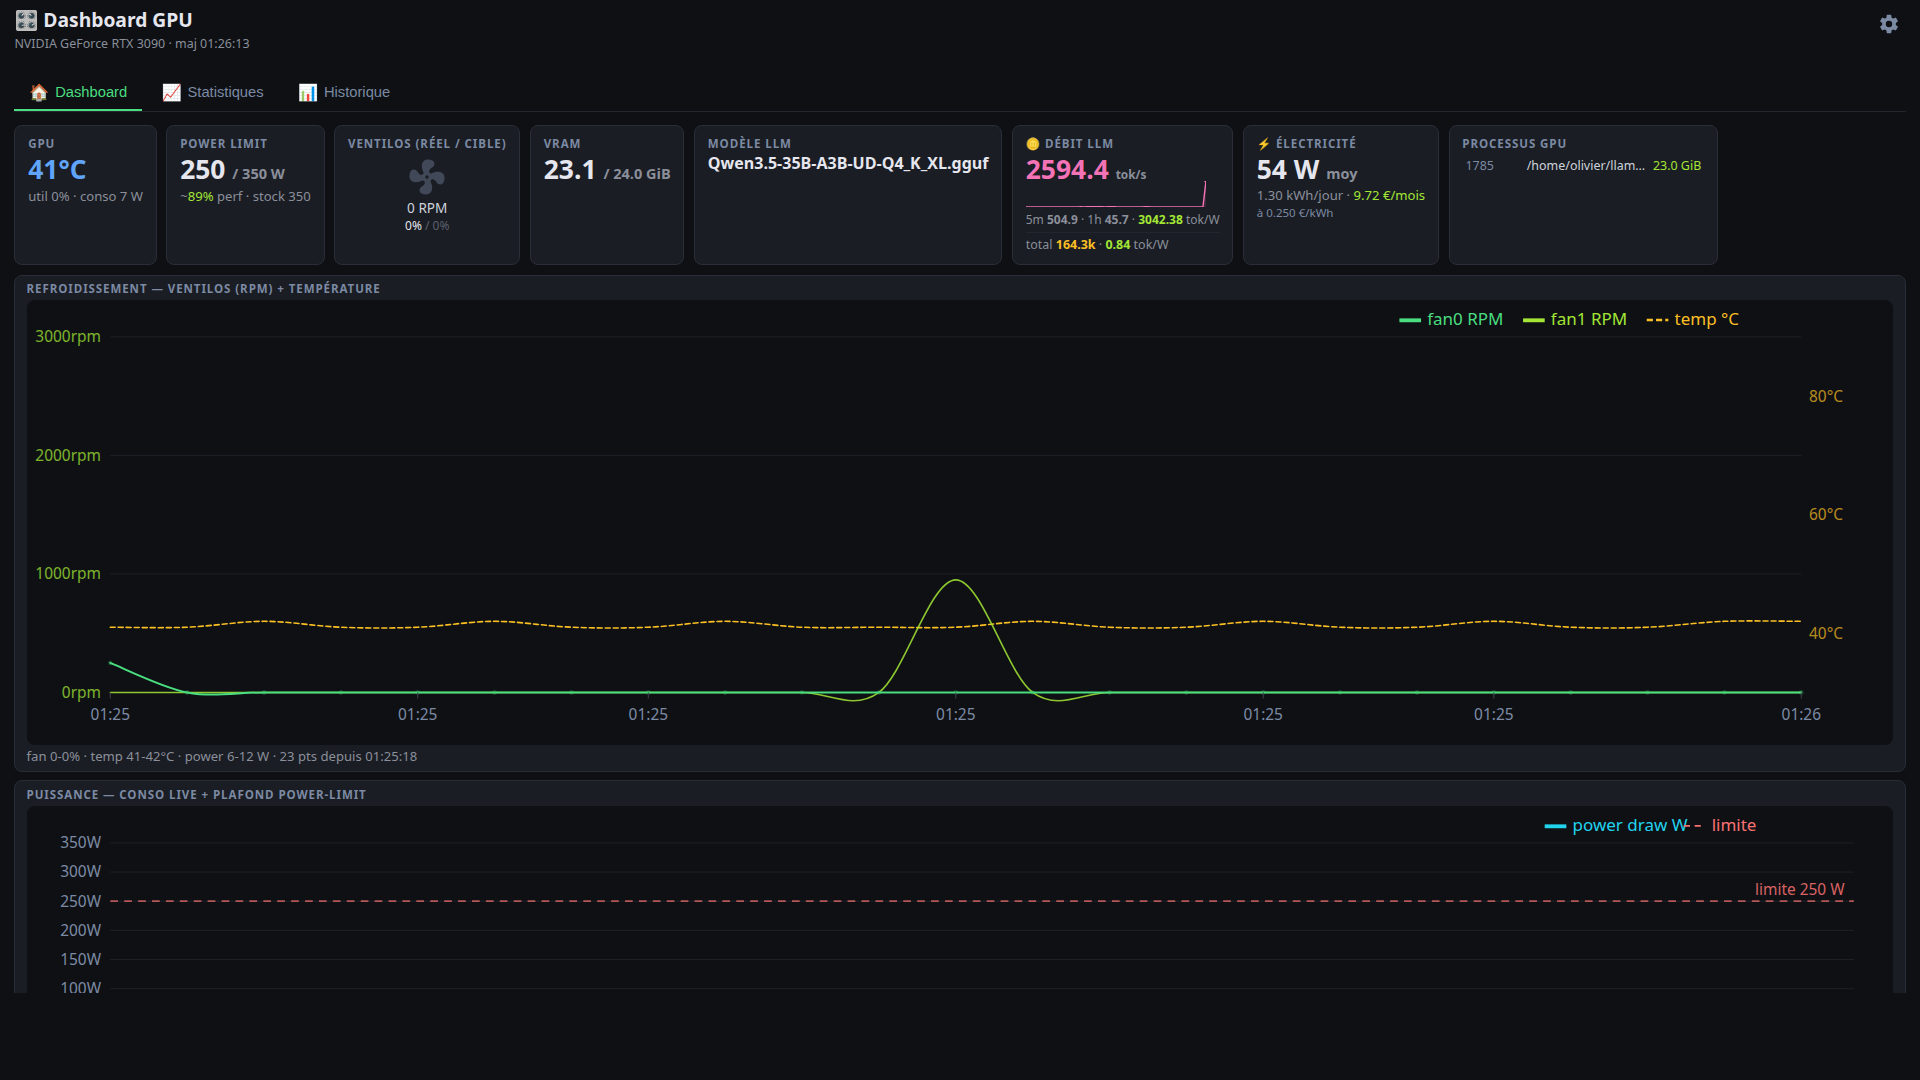
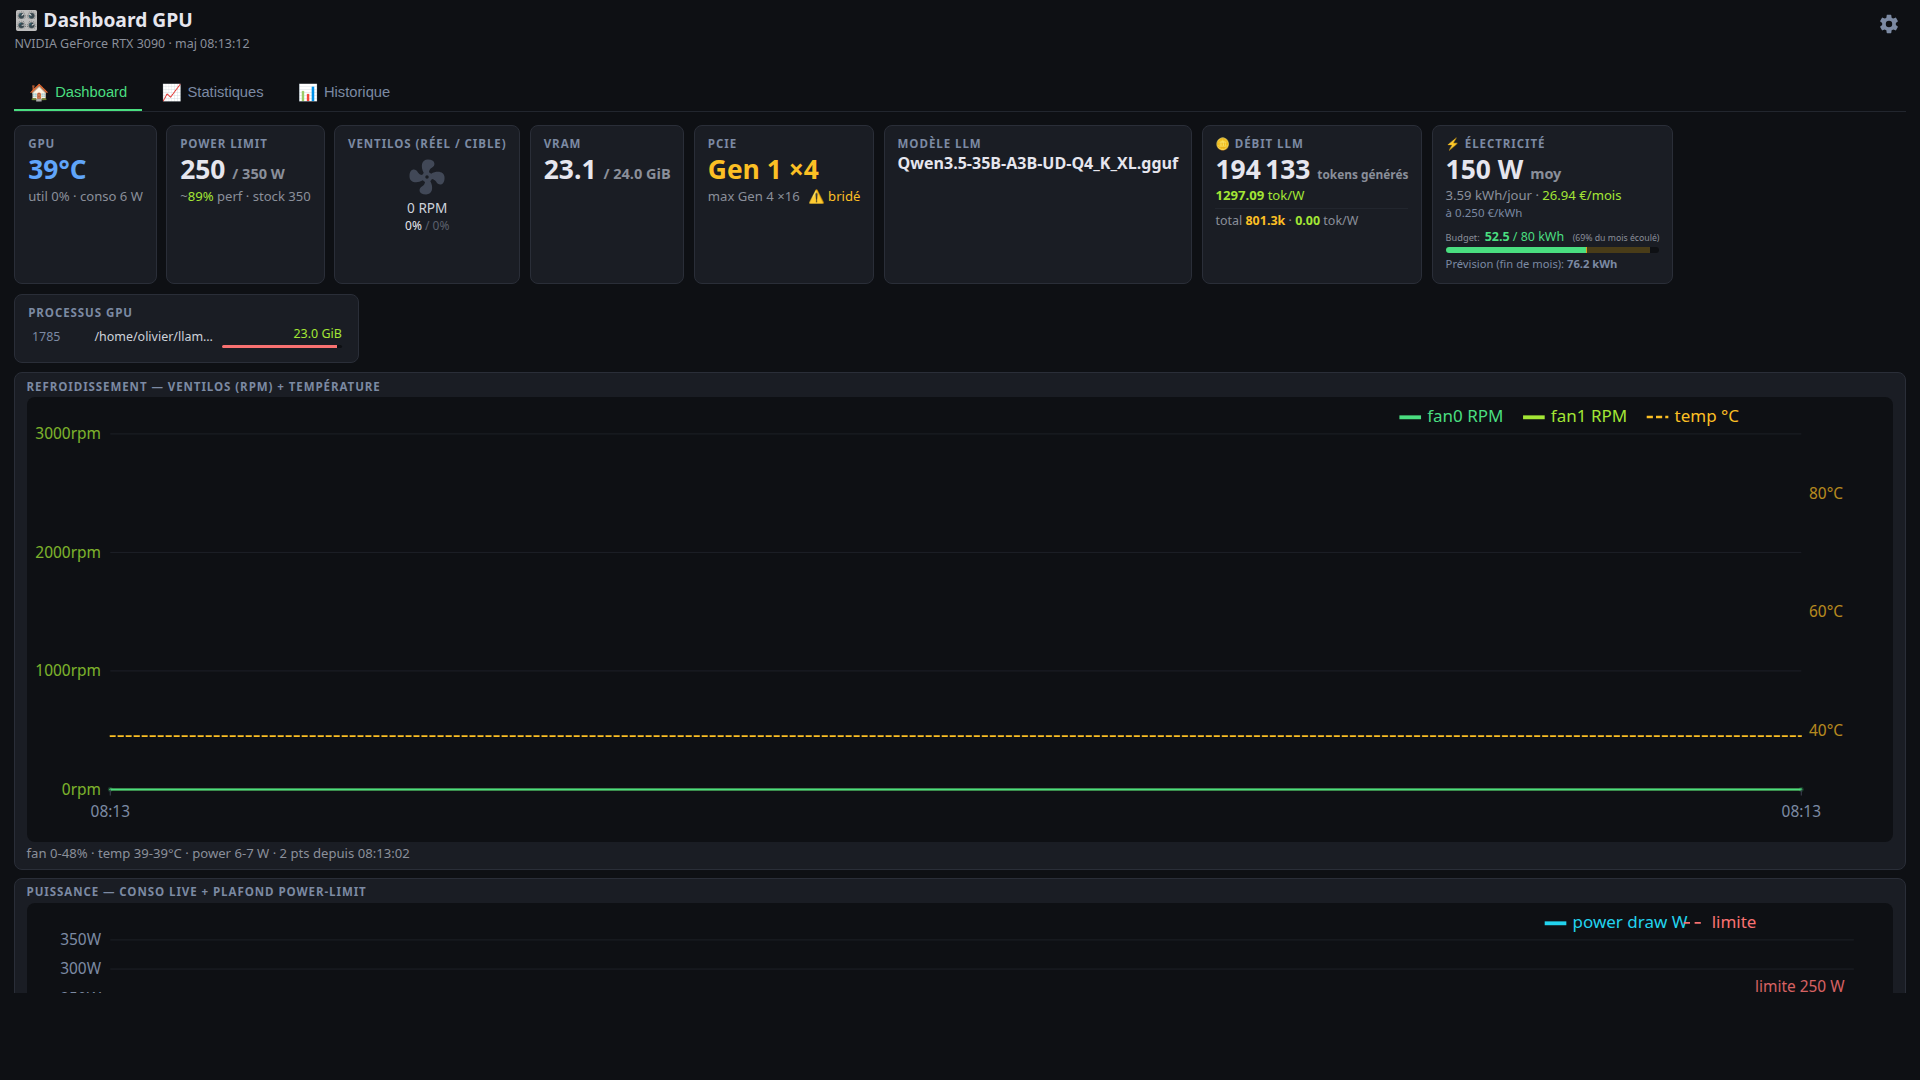
docs: consolidation — CHANGELOG R&D summary + refresh screenshots
Cycle 126. Closes the R&D iteration with proper docs.

CHANGELOG.md [Unreleased] gets a full breakdown of all 6 R&D features
(116-125) with sources, mechanism, test count, and inspiration tools.

Refreshed :
  docs/screenshot.png — main dashboard now shows the new PCIe card
                       (Gen 1 ×4 ⚠️ bridé) + electricity budget tracker
                       (52/80 kWh with forecast band)
  docs/stats.png      — same data shape, full Stats top-level view

These reflect the dashboard's current state after the 11-cycle R&D
iteration brought 6 new features.

diff --git a/CHANGELOG.md b/CHANGELOG.md
@@ -4,13 +4,50 @@ All notable changes to gpu-dashboard. Format inspired by [Keep a Changelog](http
 
 ## [Unreleased]
 
-### Added — Per-application profile triggers (cycles 116-119, R&D feature #1)
-- New module `modules/app_triggers.py` : `scan_running_apps()` reads `/proc/*/comm`, `load_triggers()` / `save_triggers()` persist to `~/.config/gpu-dashboard/app_triggers.json`, `match_trigger()` does case-insensitive substring matching with profile-priority resolution (boost > sweet > silent).
-- `AutoProfileDaemon` now consults triggers each tick and forces the matching profile immediately (no stability gate — the user explicitly opted-in). When no trigger matches, falls through to the existing load-classification.
-- `GET / POST /api/app-triggers` with validation (profile ∈ {silent, sweet, boost}).
-- UI : new tab **Déclencheurs apps** under Settings → AVANCÉ. Row editor with app text input, profile select, remove button. + Add / Save buttons.
-- `status()` of auto_profile now reports `trigger_match` for introspection.
-- Tests : 537 → 575 (38 new). Bundle +0.4 KB gzip.
+### R&D iteration — 6 features inspired by equivalent tools (cycles 115-125)
+
+Surveyed CoreCtrl, LACT, GreenWithEnvy, MSI Afterburner, HWiNFO, GPU-Z, Mission Center, nvtop, nvitop. Picked 6 high-value features fitting the project's spirit (Linux/NVIDIA, no SaaS, no paid tier).
+
+#### Added — Per-application profile triggers (cycles 116-119, R&D #1)
+- `modules/app_triggers.py` : `scan_running_apps()` reads `/proc/*/comm`, `load_triggers()` / `save_triggers()` persist to `~/.config/gpu-dashboard/app_triggers.json`, `match_trigger()` does case-insensitive substring matching with profile-priority resolution (boost > sweet > silent).
+- `AutoProfileDaemon` consults triggers each tick and forces the matching profile immediately (no stability gate — the user explicitly opted-in). When no trigger matches, falls through to load-classification.
+- `GET / POST /api/app-triggers` with validation. UI tab **Déclencheurs apps** under Settings → AVANCÉ.
+- 38 new tests. Inspired by CoreCtrl / LACT.
+
+#### Added — NVENC/NVDEC + PCIe link state metrics (cycle 120, R&D #2)
+- nvidia-smi query extended to capture `utilization.encoder`, `utilization.decoder`, `pcie.link.gen.current/max`, `pcie.link.width.current/max`.
+- Plumbed into `/api/state.gpu` + `MetricsSampler` CSV poll.
+- GPU card shows `ENC X% · DEC Y%` when active. New **PCIe card** with downgrade detection (⚠️ amber when current < max) — catches PCIe Gen 4 → Gen 1 fallback under ASPM or riser/cable problems.
+- 5 new tests. Inspired by HWiNFO.
+
+#### Added — Monthly power budget tracker (cycle 121, R&D #3)
+- `/api/power-stats` + `/api/electricity` expose `kwh_month`, `cost_month`, `month_progress_pct`, `forecast_kwh`, `budget_kwh`, `over_budget`.
+- `POST /api/electricity/config` accepts `budget_kwh` (0 disables tracking, validated 0-10000).
+- Electricity card shows a 2-tone progress bar : solid for actual usage, dashed amber overlay for the forecast band beyond. ⚠️ over_budget flag flips the bar to amber.
+- 8 new tests. Inspired by Mission Center.
+
+#### Added — A/B Profile benchmark (cycles 122-123, R&D #4)
+- `modules/benchmark.py` : `run_segment(duration, profile, apply_cb, sampler)` aggregates power/temp/util/tokens over the window. `compare(a, b)` returns deltas + per-criterion winners (cooler, lower_power, higher_throughput, more_efficient, cheaper).
+- `POST /api/benchmark/run` validates inputs (profile ∈ {silent,sweet,boost}, duration ∈ [5, 300], a ≠ b), runs both segments synchronously, returns the comparison.
+- UI tab **Comparateur A/B** under AVANCÉ : profile selectors + duration input + ▶ Run + 5-row result table with winner highlighted per criterion.
+- 14 new tests (helper + API + injectable sleep/now for fast unit tests).
+
+#### Added — Plot SVG export (cycle 124, R&D #5)
+- `charts.ts` `exportSvgAsFile()` helper : clones the live SVG, adds xmlns + dark background rect, serializes via XMLSerializer with XML preamble, triggers browser download via Blob + temp `<a download>`.
+- HistoryChart adds a ⬇️ button top-right. Filename includes the metric + ISO timestamp.
+
+#### Added — GPU process tree expansion (cycle 125, R&D #6)
+- `_read_cmdline(pid)` helper reads `/proc/<pid>/cmdline` (NUL-sep → space-sep, 200-char truncation).
+- `/api/processes` attaches `cmdline` to each row.
+- Cards.svelte processes table : 3px per-row VRAM bar (green < 50%, amber < 80%, red ≥ 80%) + cmdline tooltip on hover.
+- 4 new tests. Inspired by nvtop / nvitop.
+
+### Stats summary
+- Tests : 537 → 598 (+61 new TDD tests across 11 cycles)
+- Bundle : ~82 KB gzip → ~86 KB gzip (+5% for 6 features)
+- 1 new schema-less config file (`~/.config/gpu-dashboard/app_triggers.json`)
+- 1 new endpoint family : `/api/benchmark/run`, `/api/app-triggers`
+- 6 new pieces of metadata in `/api/state` (encoder/decoder/pcie × 2)
 
 ## [0.3.0] — 2026-05-22
 